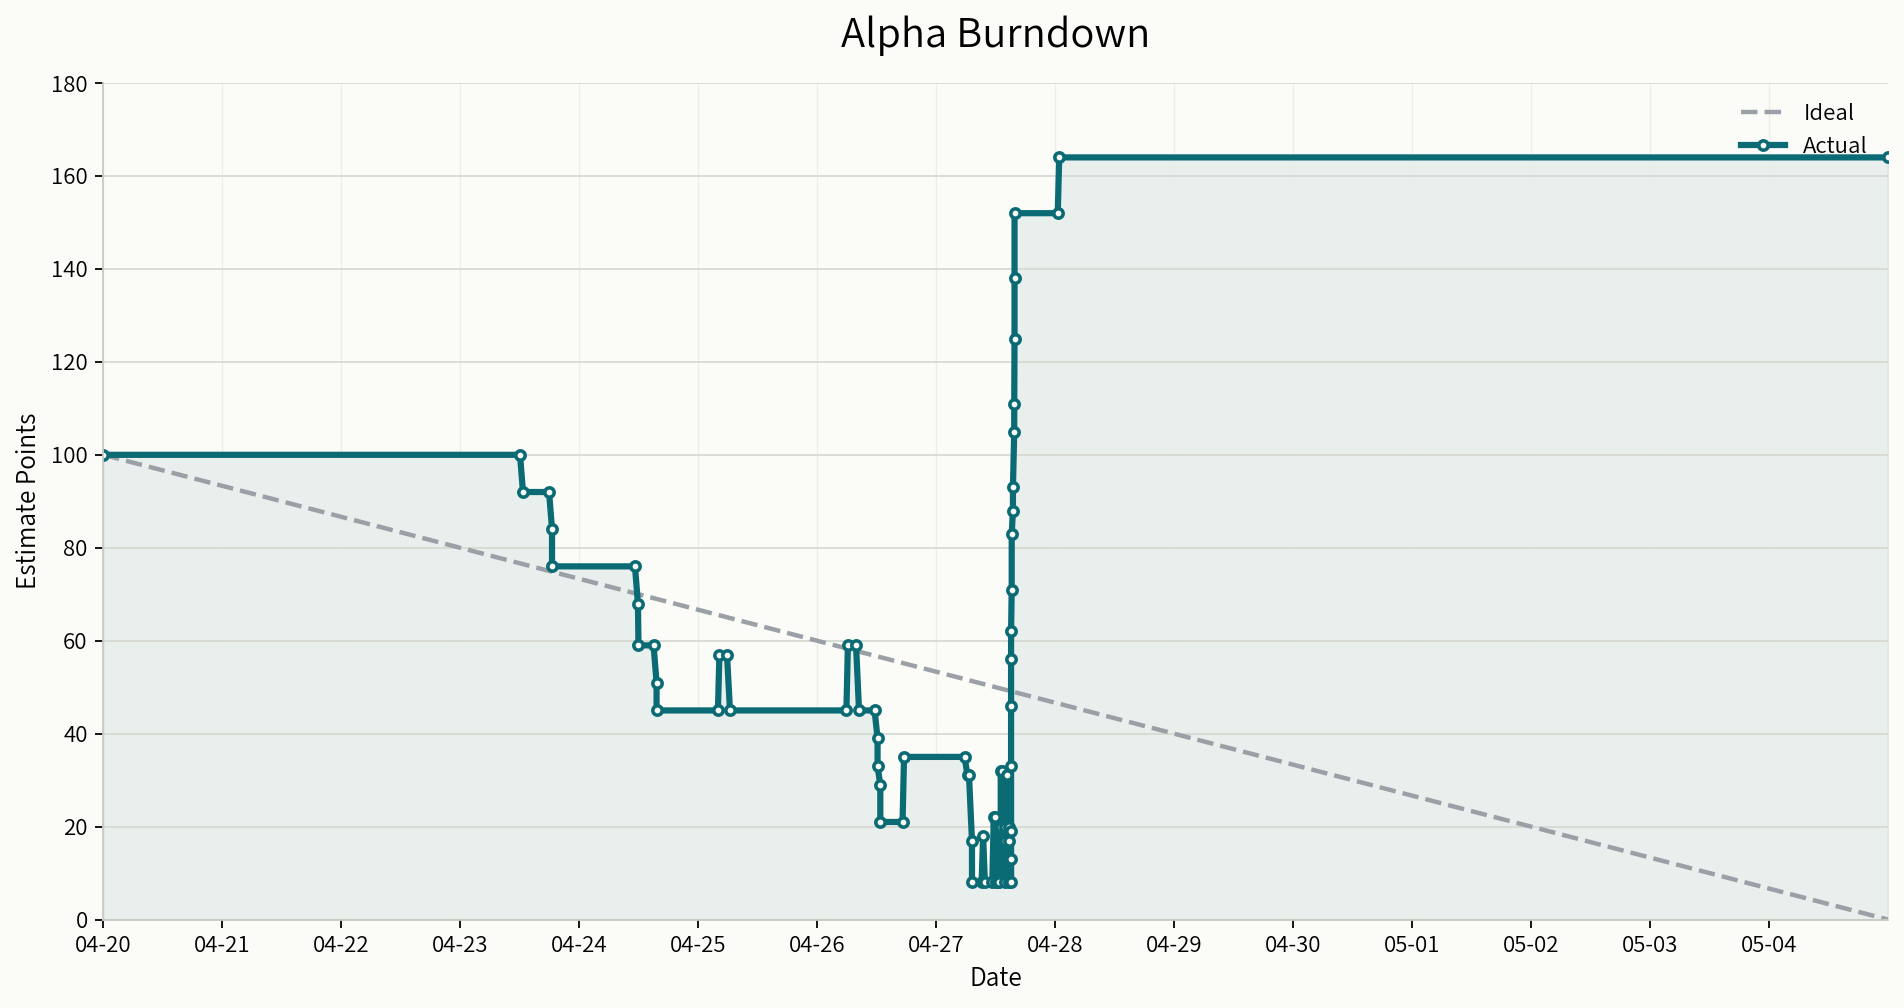
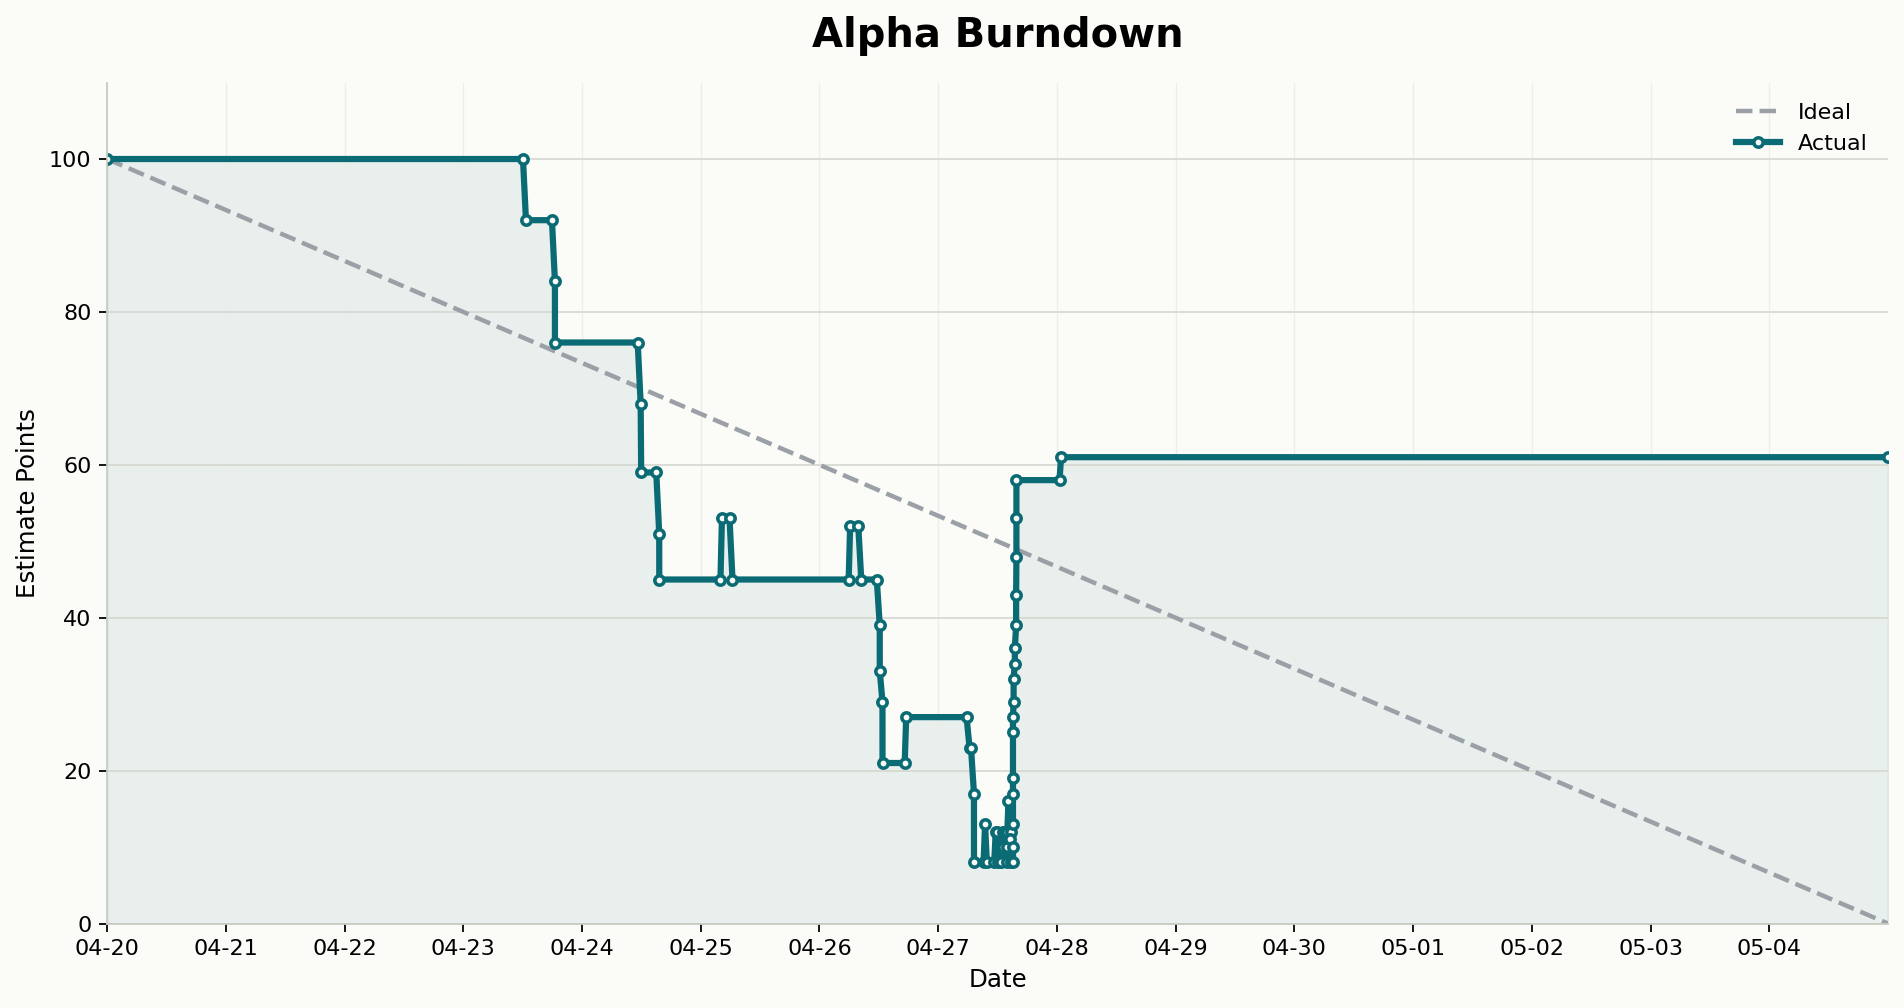
docs(燃尽图): 下调新增 issue 估点

diff --git a/scripts/tools/alpha_burndown.py b/scripts/tools/alpha_burndown.py
@@ -28,6 +28,39 @@ DEFAULT_REPO = "Cl0udTide/BUAASE-HexaVigil"
 ESTIMATE_RE = re.compile(r"^estimate:(\d+)$", re.IGNORECASE)
 ONE_DAY = dt.timedelta(days=1)
 
+# The first Alpha batch is normalized to 100 points. Issues created later are
+# new work discovered during development, so they should be estimated at their
+# own size instead of being inflated to keep another artificial total.
+POST_INITIAL_ESTIMATES = {
+    27: 8,
+    29: 7,
+    37: 6,
+    40: 5,
+    42: 4,
+    44: 4,
+    46: 2,
+    47: 2,
+    51: 4,
+    52: 4,
+    55: 3,
+    57: 2,
+    58: 3,
+    59: 4,
+    60: 2,
+    61: 6,
+    62: 2,
+    63: 2,
+    64: 3,
+    65: 2,
+    66: 2,
+    67: 3,
+    68: 4,
+    69: 5,
+    70: 5,
+    71: 5,
+    72: 3,
+}
+
 LOCAL_PACKAGES = Path(".local/python-packages")
 if LOCAL_PACKAGES.exists():
     sys.path.insert(0, str(LOCAL_PACKAGES.resolve()))
@@ -172,6 +205,22 @@ def heuristic_weight(issue: Issue) -> int:
     return max(2, min(weight, 15))
 
 
+def post_initial_estimate(issue: Issue) -> int:
+    if issue.number in POST_INITIAL_ESTIMATES:
+        return POST_INITIAL_ESTIMATES[issue.number]
+
+    text = f"{issue.title}\n{issue.body}".lower()
+    if any(marker in text for marker in ("fix", "bug", "异常", "不会", "不应", "错误")):
+        return 2
+    if any(marker in text for marker in ("ui", "弹窗", "倒计时", "显示", "控制", "互斥", "数值")):
+        return 3
+    if any(marker in text for marker in ("预览", "重构", "拆分", "系统", "机制")):
+        return 4
+    if any(marker in text for marker in ("长期", "美术", "音乐", "剧情", "立绘")):
+        return 5
+    return 3
+
+
 def normalized_initial_estimates(issues: list[Issue], total: int) -> dict[int, int]:
     if not issues:
         return {}
@@ -242,7 +291,7 @@ def sync_alpha(
     for issue in issues:
         current_estimate = issue_estimate(issue)
         if force_estimates or current_estimate is None:
-            estimate = normalized.get(issue.number, heuristic_weight(issue))
+            estimate = normalized.get(issue.number, post_initial_estimate(issue))
         else:
             estimate = current_estimate
 

diff --git a/docs/alpha_burndown.md b/docs/alpha_burndown.md
@@ -4,11 +4,11 @@
 
 本图用于展示 Alpha 迭代周期内的 issue 工作量变化。迭代日期为 2026-04-20 至 2026-05-04，理想线从 100 points 线性下降到 0 points。
 
-由于仓库在 2026-04-23 才完成初始化，脚本会把 2026-04-23 及之前创建的首批 issue 视作 2026-04-20 已存在的初始工作量，并将这批 issue 的估点归一到总计 100。之后新增的 issue 会按标题和正文关键词估算 points，所以实际线可以体现开发中途新增任务导致的上升，以及任务关闭导致的下降。
+由于仓库在 2026-04-23 才完成初始化，脚本会把 2026-04-23 及之前创建的首批 issue 视作 2026-04-20 已存在的初始工作量，并将这批 issue 的估点归一到总计 100。之后新增的 issue 不再凑总数，而是按新增问题本身的复杂度估点：小 bug 通常为 2-3 points，普通 UI 或数值调整为 2-4 points，较完整的新功能为 5-8 points。
 
 ## Estimate 标签
 
-每个 issue 使用 `estimate:N` 标签记录估点，例如 `estimate:8`。这种格式便于脚本直接解析，也方便后续手工调整。
+每个 issue 使用 `estimate:N` 标签记录估点，例如 `estimate:3`。这种格式便于脚本直接解析，也方便后续手工调整。
 
 ## 重新生成
 